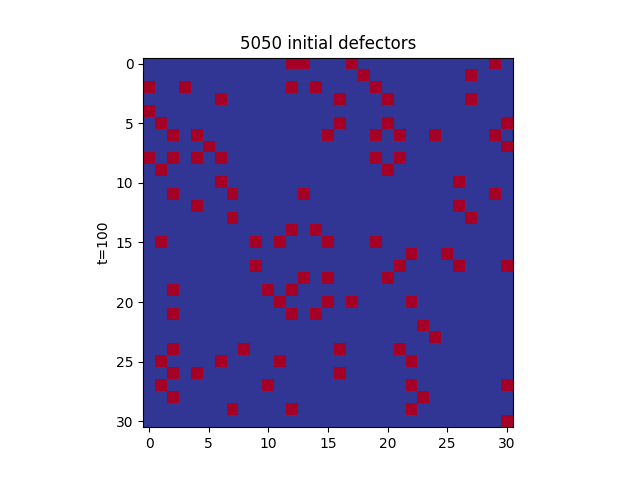
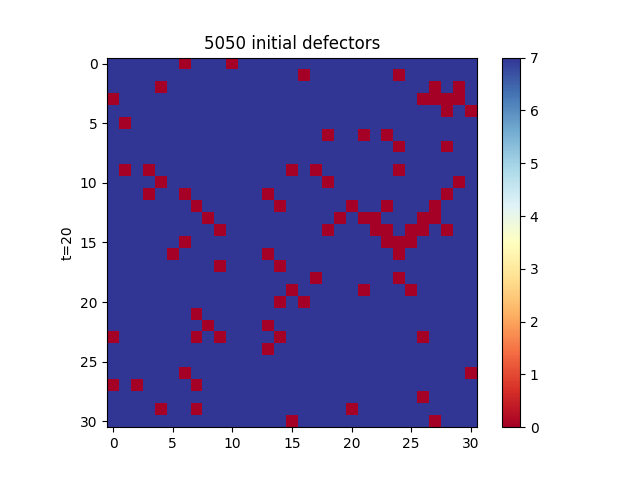
13.1-13.3 finished

diff --git a/Homework4/PrisonerFunctions.py b/Homework4/PrisonerFunctions.py
@@ -60,13 +60,13 @@ def initialize_strategies(L, nDefectors, N):
 
     if nDefectors == L*L-9:
         lattice = np.zeros([L, L]).astype(int)
-        # lattice[(L // 2) - 1, (L // 2) - 1] = N
-        # lattice[(L // 2) - 1, (L // 2)] = N
-        # lattice[(L // 2) - 1, (L // 2) + 1] = N
-        # lattice[L // 2, L // 2 - 1] = N
+        lattice[(L // 2) - 1, (L // 2) - 1] = N
+        lattice[(L // 2) - 1, (L // 2)] = N
+        lattice[(L // 2) - 1, (L // 2) + 1] = N
+        lattice[L // 2, L // 2 - 1] = N
         lattice[L // 2, L // 2] = N
         lattice[L // 2, L // 2 + 1] = N
-        # lattice[L // 2 + 1, L // 2 - 1] = N
+        lattice[L // 2 + 1, L // 2 - 1] = N
         lattice[L // 2 + 1, L // 2] = N
         lattice[L // 2 + 1, L // 2 + 1] = N
 

diff --git a/Homework4/main.py b/Homework4/main.py
@@ -15,22 +15,23 @@ N = 7
 R = 0.85
 S = 1.5
 P = 1
-L = 7
+L = 31
 mu = 0.01
 
-nDefec = L*L-9
-timesteps = 20
+nDefec = 5050
+timesteps = 30
 
 lattice = fun.initialize_strategies(L, nDefec, N)
-plt.imshow(lattice, cmap='RdYlBu')
 
 for t in trange(timesteps):
     comp_lattice = fun.competition(lattice, N, R, S, P)
     updated_lattice = fun.revision(comp_lattice, lattice)
-    lattice = updated_lattice
-    # lattice = fun.mutation(lattice, mu, N)
+    lattice = np.copy(updated_lattice)
+    lattice = fun.mutation(lattice, mu, N)
+
 
 plt.imshow(lattice, cmap='RdYlBu')
+plt.colorbar()
 plt.ylabel(f't={timesteps}')
 plt.title(f'{nDefec} initial defectors')
 plt.show()
